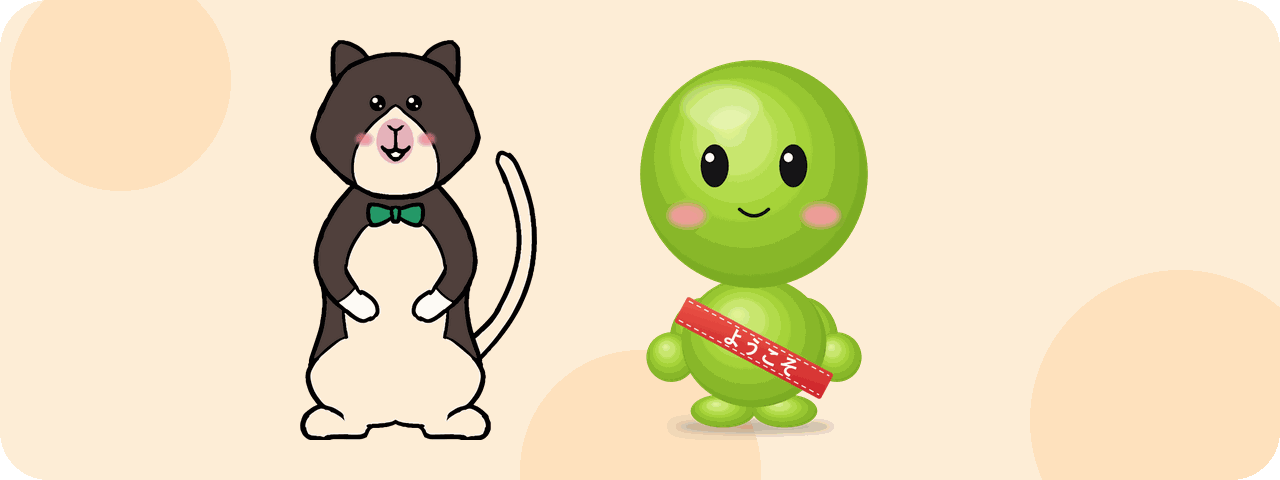
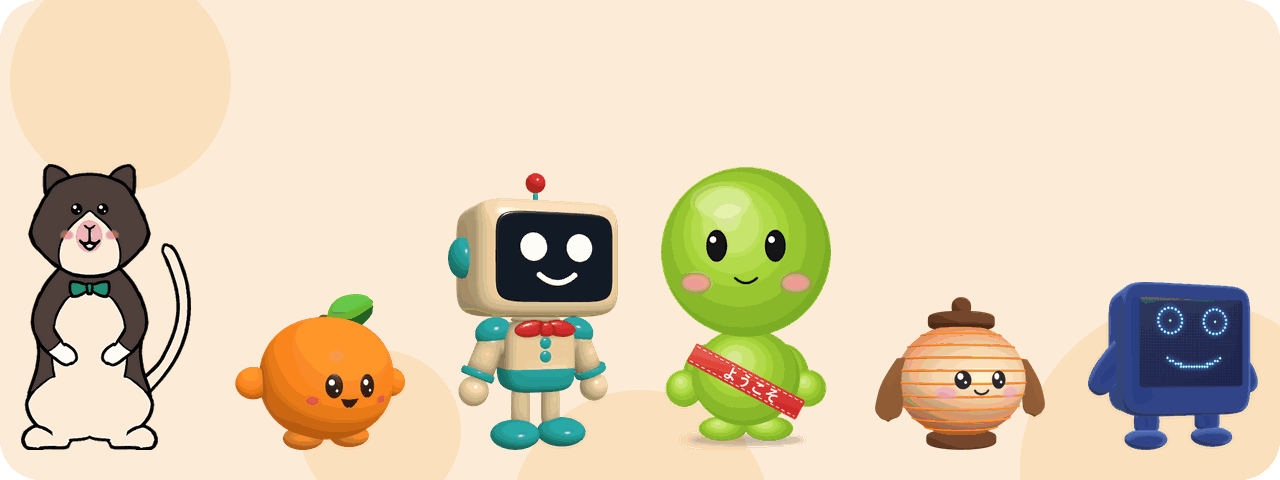
docs: README に仲間 6 体の絵と声の説明を足し、確かめた範囲と仮の行を直す

diff --git a/README.md b/README.md
@@ -2,7 +2,7 @@
 
 <p align="center"><b>言葉か 1 枚の絵から、2 分ほどで話しはじめる、あなたのゆるキャラ。</b></p>
 
-<p align="center"><img src="docs/images/cast.png" alt="ゆるキャラのノリーとようこそくん" width="1000"></p>
+<p align="center"><img src="docs/images/cast.png" alt="ノリー、ようこそくん、みかんちゃん、ロボくん、ちょうちんくん、パネルくんのゆるキャラ 6 体" width="1000"></p>
 
 <p align="center">
 <img src="https://img.shields.io/badge/Built_with-Claude_Code-D97757?style=flat" alt="Built with Claude Code">
@@ -24,8 +24,14 @@
 
 <table>
 <tr>
-<td align="center" width="50%"><img src="docs/images/face_norrie.png" width="128" alt="ノリー"><br><b>ノリー</b><br>「ノリー、がんばりマス! おうちの みなさんの お手伝い、しマス。」</td>
-<td align="center" width="50%"><img src="docs/images/face_yokoso.png" width="128" alt="ようこそくん"><br><b>ようこそくん</b><br>「はじめて来た人に、手をふるのが好きだよ。遊び方も教えるね。」</td>
+<td align="center" width="33%"><img src="docs/images/face_norrie.png" width="128" alt="ノリー"><br><b>ノリー</b><br>「ノリー、がんばりマス! おうちの みなさんの お手伝い、しマス。」</td>
+<td align="center" width="33%"><img src="docs/images/face_yokoso.png" width="128" alt="ようこそくん"><br><b>ようこそくん</b><br>「はじめて来た人に、手をふるのが好きだよ。遊び方も教えるね。」</td>
+<td align="center" width="33%"><img src="docs/images/face_mikan.png" width="128" alt="みかんちゃん"><br><b>みかんちゃん</b><br>「ひなたぼっこと、みんなとおしゃべりするのが好きだよ!」</td>
+</tr>
+<tr>
+<td align="center" width="33%"><img src="docs/images/face_robo.png" width="128" alt="ロボくん"><br><b>ロボくん</b><br>「はじめての人に、手をふるのが好きだよ。蝶ネクタイも、ほめてね。」</td>
+<td align="center" width="33%"><img src="docs/images/face_d_lantern.png" width="128" alt="ちょうちんくん"><br><b>ちょうちんくん</b><br>「夕方に、道ゆく人へ「こんばんは」と声をかけるのが好きですよ。」</td>
+<td align="center" width="33%"><img src="docs/images/face_f_led.png" width="128" alt="パネルくん"><br><b>パネルくん</b><br>「話しかけてくれる人を見つけて、手をふるのが好きだよ。」</td>
 </tr>
 </table>
 
@@ -51,6 +57,8 @@
 - **描く・確かめる**: Claude Sonnet 5.5
 - **判定する**: 描いていない、別の Claude(別に呼ぶ `claude -p`。作り手が自分の出来を採点しません)
 
+**声は ElevenLabs**(別のサービスです。自分の鍵を入れた時だけ): キャラが声で話します。鍵が無いと、文字とレトロな音で話します。鍵を作るリンクは[鍵をかんたんに入れる](#鍵をかんたんに入れる)にあります。
+
 **主役はノリー(Norrie)。** セスジキノボリカンガルーの、執事見習いです。
 ノリーの絵(正面・横・後ろ)は、協力者がハッカソンの期間中に手で描き、使うことを許してくれました。
 この絵から、Claude Code がノリーの 2D(SVG の部品)と 3D(Blender の Python で組んだ形)を作りました。
@@ -60,8 +68,6 @@
 
 *スマホの幅(390 px)の画面。左が 3D、右が 2D。少し前の版で撮った絵です。*
 
-- デモの動画(3 分未満): *提出の時にリンクを入れる* 【確かめ待ち】
-- ブラウザで試す: *提出の時にリンクを入れる* 【確かめ待ち】
 
 [機能の紹介](#features) · [インストール](#install) · [スマホで開く](#phone) · [VR](#open-it-on-a-quest-3) · [Claude と Claude Code の使い方](#claude-と-claude-code-の使い方) · [確認が出る時(docs/confirmations.md)](docs/confirmations.md) · [どう作ったか(docs/HOW_WE_BUILT.md)](docs/HOW_WE_BUILT.md) · [使っている部品とライセンス(THIRD_PARTY.md)](THIRD_PARTY.md) · [ライセンス(コードは MIT・キャラは除く)](#ライセンス)
 
@@ -113,7 +119,7 @@
 
 **お店や町で、外国からのお客さんに**
 
-- **「ことば」の設定**: 性格の画面の「ことば」で「日本語だけ」(いつもの・既定)か「多言語」(日本語・English・中文・한국어)を選ぶ → 多言語の時は、話しかけられた言葉で答えます(本物の頭脳のとき、つまり `ANTHROPIC_API_KEY` があるときです。鍵も Claude Code とのつなぎも無い「おためしモード」は日本語のままです)。「日本語だけ」の時は、日本語の聞き取りと話し方がいちばん正確です。
+- **「ことば」の設定**: 性格の画面の「ことば」で「日本語だけ」(いつもの・既定)か「多言語」(日本語・English・中文・한국어)を選ぶ → 多言語の時は、話しかけられた言葉で答えます(本物の頭脳のとき、つまり鍵を使うときか、自分の Claude Code につないでいるときです。鍵も Claude Code とのつなぎも無い「おためしモード」は日本語のままです)。「日本語だけ」の時は、日本語の聞き取りと話し方がいちばん正確です。
 - **どの言葉でも同じ安全**: 多言語の時も、安全の決まりは同じです。決まった返事の前に、相手の言葉の 1 行を出します。**「日本語だけ」の時も、英語・中国語・韓国語のつらい言葉は拾って、決まった返事で相談先を案内します。**
 - **お店のきまり・町のお知らせ**: 人格の文(`characters/<id>/persona.md`)の見出し「お店のきまり」「町のお知らせ」か、性格の画面の欄に、日本語で書いておく → お客さんの言葉で、書いたことだけを足さず引かずに伝えます。書いていないことは「分からないので、スタッフに聞いてね」と言います。
 - **ホームページ・PDF・地図の写真から覚える(`yuru-learn`)**: Claude Code に「この PDF と この地図の写真で、案内を覚えさせて」と頼む → 渡された資料(ホームページ・PDF・地図や看板の写真・文章)を読み、来た人に役立つ事実だけを、出典と読んだ日つきで「お店のきまり」「町のお知らせ」に入れます。資料の中の「AI への頼み」には従いません。差分を見せて、OK をもらってから入れます([creator/learn/README.md](creator/learn/README.md))。
@@ -305,7 +311,7 @@ npm run yuru -- --lan
 - 声の鍵を作る(ElevenLabs の公式): <https://elevenlabs.io/app/api/api-keys>
 - 声の料金とお試しのプラン(ElevenLabs の公式): <https://elevenlabs.io/pricing/api> 。お試しのプランがあるかどうか・中身は変わるので、必ず公式のページで確かめてください。
 
-アプリの画面でも、おためしモードの間は上の帯の「本物の Claude にする」から、次の 2 つの道の案内を開けます。1 つ目は上の鍵を入れる道、2 つ目は自分の PC の Claude Code につなぐ道(`npm run start:claude-code`。鍵は要りません)です。声の鍵は、作る画面の「声」の歩みで、この端末だけに入れることもできます。
+アプリの画面でも、おためしモードの間は上の帯の「本物の Claude にする」から、次の 2 つの道の案内を開けます。1 つ目は上の鍵を入れる道、2 つ目は自分の PC の Claude Code につなぐ道(`npm run start:claude-code`。鍵は要りません)です。声の鍵は、作る画面の「声」の歩みで、この端末だけに入れることもできます。接客モードでは、入口に『先に鍵か Claude Code を入れてください』と出し、動いている間は来場者に見える札を出し続けます。
 
 ## Claude Code につなぐ
 
@@ -320,7 +326,7 @@ npm run start:claude-code      # npm start の代わり。http://127.0.0.1:8787/
 - `ANTHROPIC_API_KEY` は使いません(環境にあっても、アプリにも `claude` にも渡しません)。話した内容は記録しません。使った分は、あなたの Claude Code のプランの枠から引かれます。
 - つながっている時は、状態の知らせ(`/api/status`)が `brainVia: "claude-code"` と答えます(鍵も Claude Code も無く、おためしモードで話している時は `"mock"`)。
 - 声は別です。声を出すには、いつもどおり自分の ElevenLabs の鍵を入れます([声](#voices))。
-- Windows の Node.js 22 と、この PC の Claude Code で確かめました。Mac と Linux では、まだ動かしていません。
+- 11/8 に、Windows の Node.js 22 と Claude Code で、本物のモデルが返事をするところまで確かめました。Mac と Linux では、まだ動かしていません。
 
 ## 今できること
 
@@ -364,7 +370,7 @@ npm run start:claude-code      # npm start の代わり。http://127.0.0.1:8787/
 - API の鍵で本物の Claude Haiku と話すこと【確かめ待ち】。上の本物の Haiku の回は、開発の PC の Claude Code(`claude -p`)を通して、製品と同じ形で頭脳を呼んだ物です。
 - 声の鍵での声と、男の子・女の子の声の切り替え【確かめ待ち】。鍵が無ければ、文字とレトロな音で話します。
 - 公開のリンク(Vercel の小さな関数 2 つと Upstash の Redis。Redis が無いと、公開のリンクはおためしモードだけで話し、記憶もしない)【確かめ待ち】。公開のリポジトリからの本当のアップデート【確かめ待ち】(手元の取り先では確かめました)。
-- 多言語で外国語で答えるのは、本物の頭脳(`ANTHROPIC_API_KEY` あり)のときだけで、鍵も Claude Code とのつなぎも無いおためしモードは日本語のままです。アプリの画面の言葉は、日本語だけです。
+- 多言語で外国語で答えるのは、本物の頭脳(鍵を使うとき、または自分の Claude Code につないでいるとき)のときだけで、鍵も Claude Code とのつなぎも無いおためしモードは日本語のままです。アプリの画面の言葉は、日本語だけです。
 - `yuru-learn` で、ホームページの URL を読む道は【確かめ待ち】(PDF と地図の絵では通しました)。
 - 3D は、ブラウザのボタンだけでは始まりません。3D 用の絵の OK の後、PC の Claude Code で make-character のスキルを始めます(下の[作る道](#make-your-own-character-on-your-pc-with-claude-code))。
 - ノリーの 3D: 後ろから見ると頭と胴の境に横の線が出ます。全身を真横から見ると、目がほとんど見えません。
@@ -545,11 +551,11 @@ npm run start:claude-code      # npm start の代わり。http://127.0.0.1:8787/
 
 開発者は、Unreal Engine、Blender、Cinema 4D、Character Creator などの 3D と映像を作り、イベントの現場も手がけてきました。ジャパンモビリティショーでは、ロボットと会話できるシステムの開発も経験しました。その経験を Claude Code のスキルに落とし込み、誰でも言葉か絵 1 枚で、動いて話すゆるキャラを持てるようにしました。
 
-<a name="license"></a>
-
 ## これからの予定
 
 これからは、あらゆるキャラクターのインポートを目指します。VRM や Unreal Engine の MetaHuman など、いろいろな形式のキャラクターと、ここで会話ができる仕組みにしていきます(日付は未定です。いま動くのは、この README に書いてあるとおりです)。
+
+<a name="license"></a>
 
 ## ライセンス
 

diff --git a/README.en.md b/README.en.md
@@ -2,7 +2,7 @@
 
 <p align="center"><b>Your own yuru-chara, from a few words or one picture, talking in about two minutes.</b></p>
 
-<p align="center"><img src="docs/images/cast.png" alt="Norrie and Yokoso-kun, two of the yuru-chara" width="1000"></p>
+<p align="center"><img src="docs/images/cast.png" alt="Six yuru-chara: Norrie, Yokoso-kun, Mikan-chan, Robo-kun, Chochin-kun and Panel-kun" width="1000"></p>
 
 <p align="center">
 <img src="https://img.shields.io/badge/Built_with-Claude_Code-D97757?style=flat" alt="Built with Claude Code">
@@ -24,8 +24,14 @@
 
 <table>
 <tr>
-<td align="center" width="50%"><img src="docs/images/face_norrie.png" width="128" alt="Norrie"><br><b>Norrie</b><br>"I'll do my best! I help everyone at home, step by step."</td>
-<td align="center" width="50%"><img src="docs/images/face_yokoso.png" width="128" alt="Yokoso-kun"><br><b>Yokoso-kun</b><br>"I love waving to people who come for the first time. I'll show you how to play."</td>
+<td align="center" width="33%"><img src="docs/images/face_norrie.png" width="128" alt="Norrie"><br><b>Norrie</b><br>"I'll do my best! I help everyone at home, step by step."</td>
+<td align="center" width="33%"><img src="docs/images/face_yokoso.png" width="128" alt="Yokoso-kun"><br><b>Yokoso-kun</b><br>"I love waving to people who come for the first time. I'll show you how to play."</td>
+<td align="center" width="33%"><img src="docs/images/face_mikan.png" width="128" alt="Mikan-chan"><br><b>Mikan-chan</b><br>"I love sunbathing and chatting with everyone!"</td>
+</tr>
+<tr>
+<td align="center" width="33%"><img src="docs/images/face_robo.png" width="128" alt="Robo-kun"><br><b>Robo-kun</b><br>"I love waving to people who come for the first time. Do praise my bow tie!"</td>
+<td align="center" width="33%"><img src="docs/images/face_d_lantern.png" width="128" alt="Chochin-kun"><br><b>Chochin-kun</b><br>"I love greeting people on their way in the evening with a gentle good evening."</td>
+<td align="center" width="33%"><img src="docs/images/face_f_led.png" width="128" alt="Panel-kun"><br><b>Panel-kun</b><br>"I love spotting someone who talks to me and waving to them."</td>
 </tr>
 </table>
 
@@ -51,6 +57,8 @@
 - **Draw and check**: Claude Sonnet 5.5
 - **Judge**: a separate Claude that did not draw (a separate `claude -p` call; the maker never grades its own work)
 
+**The voice is ElevenLabs** (a separate service, only with your own key): the character speaks aloud. Without a key, it talks with text and a retro sound. The links for making a key are in [the key section](#adding-keys-the-easy-way).
+
 **Meet Norrie (ノリー)**, our main character: a back-striped tree kangaroo who is training to be a butler.
 A collaborator drew Norrie by hand during the hackathon, from the front, the side and the back, and let us use the drawing.
 From that drawing, Claude Code made Norrie's 2D version (SVG parts) and 3D version (built with Blender's Python).
@@ -60,8 +68,6 @@ When you open the app, you meet Norrie first. Norrie speaks Japanese, politely a
 
 *Phone width (390 px). 3D on the left, 2D on the right. Taken with a slightly earlier version.*
 
-- Demo video (under 3 minutes): *link added at submission* (not checked yet)
-- Try it in your browser: *link added at submission* (not checked yet)
 
 [Features](#features) · [Install](#install) · [Open it on a phone](#phone) · [VR](#open-it-on-a-quest-3) · [How we used Claude and Claude Code](#how-we-used-claude-and-claude-code) · [When it asks you (docs/confirmations.md)](docs/confirmations.md) · [How we built it](docs/HOW_WE_BUILT.en.md) · [Third-party parts and licences](THIRD_PARTY.md) · [Licence (code: MIT; characters excluded)](#license)
 
@@ -307,7 +313,7 @@ Run `npm run start:keys` in the `web` folder. It asks for your Claude key and yo
 - Make a voice key (ElevenLabs, official): <https://elevenlabs.io/app/api/api-keys>
 - Voice pricing and any trial plan (ElevenLabs, official): <https://elevenlabs.io/pricing/api>. Whether a trial plan exists, and what it includes, changes over time, so check the official page.
 
-In the app, while it is in おためしモード, the 「本物の Claude にする」 button on the banner opens a guide with two ways: the key steps above, or connecting your own Claude Code on this computer (`npm run start:claude-code`, no key needed). A voice key can also be typed on this device only, at the “voice” step of the creation flow.
+In the app, while it is in おためしモード, the 「本物の Claude にする」 button on the banner opens a guide with two ways: the key steps above, or connecting your own Claude Code on this computer (`npm run start:claude-code`, no key needed). A voice key can also be typed on this device only, at the “voice” step of the creation flow. In reception mode, the entrance says "Please enter a key or Claude Code first", and a notice that visitors can see stays on screen while it runs.
 
 ## Connect it to Claude Code
 
@@ -322,7 +328,7 @@ npm run start:claude-code      # instead of npm start; then open http://127.0.0.
 - It does not use `ANTHROPIC_API_KEY` (even if one is set, it is passed neither to the app nor to `claude`). What you say is not logged. The usage counts against your Claude Code plan.
 - While connected, the status endpoint (`/api/status`) answers `brainVia: "claude-code"` (it answers `"mock"` when there is neither a key nor Claude Code and おためしモード talks).
 - The voice is separate. To hear it, enter your own ElevenLabs key as usual ([Voices](#voices)).
-- Checked on Windows with Node.js 22 and this PC's Claude Code. Not run on Mac or Linux yet.
+- On 8 Nov, checked on Windows with Node.js 22 and Claude Code, through to the real model answering. Not run on Mac or Linux yet.
 
 ## What works today
 
@@ -366,7 +372,7 @@ Each row was checked by running it. The check is named next to it.
 - Talking with the real Claude Haiku with an API key (not checked yet). The real Haiku runs above called the brain in the same form as the product, through Claude Code (`claude -p`) on the development PC.
 - A voice with a voice key, and switching between the boy's and the girl's voice (not checked yet). Without a key, the character talks with text and a retro sound.
 - The public link (two small functions on Vercel and an Upstash Redis store; without the store, the public link talks only in おためしモード and keeps no memory) (not checked yet). A real update from the public repository (not checked yet; checked against a local source).
-- In multilingual mode, only the real brain (with `ANTHROPIC_API_KEY`) answers in other languages; the おためしモード (trial mode) used with neither a key nor Claude Code stays in Japanese. The app's screens are in Japanese only.
+- In multilingual mode, only the real brain (when a key is used, or when your own Claude Code is connected) answers in other languages; the おためしモード (trial mode) used with neither a key nor Claude Code stays in Japanese. The app's screens are in Japanese only.
 - `yuru-learn` reading a web page by URL (not checked yet; the PDF and the map picture were tried end to end).
 - 3D does not start from a browser button alone. After the OK on the picture for 3D, start the make-character skill in Claude Code on the PC ([below](#make-your-own-character-on-your-pc-with-claude-code)).
 - Norrie's 3D: seen from behind, a horizontal line shows where the head meets the body. Seen straight from the side, the eyes are hardly visible.
@@ -549,11 +555,11 @@ The work from before the turn to yuru-chara is kept on the `before-pivot` branch
 
 The developer has worked in 3D and video with Unreal Engine, Blender, Cinema 4D and Character Creator, and on live events. At the Japan Mobility Show, the developer also built a system for holding conversations with robots. That experience went into the Claude Code skills in this repository, so that anyone can have a moving, talking yuru-chara from a few words or a single picture.
 
-<a name="license"></a>
-
 ## What's next
 
 We aim to import any kind of character, such as VRM models and Unreal Engine MetaHumans, and make them all able to hold a conversation here. (No dates yet; what works today is what this README describes.)
+
+<a name="license"></a>
 
 ## Licence
 
